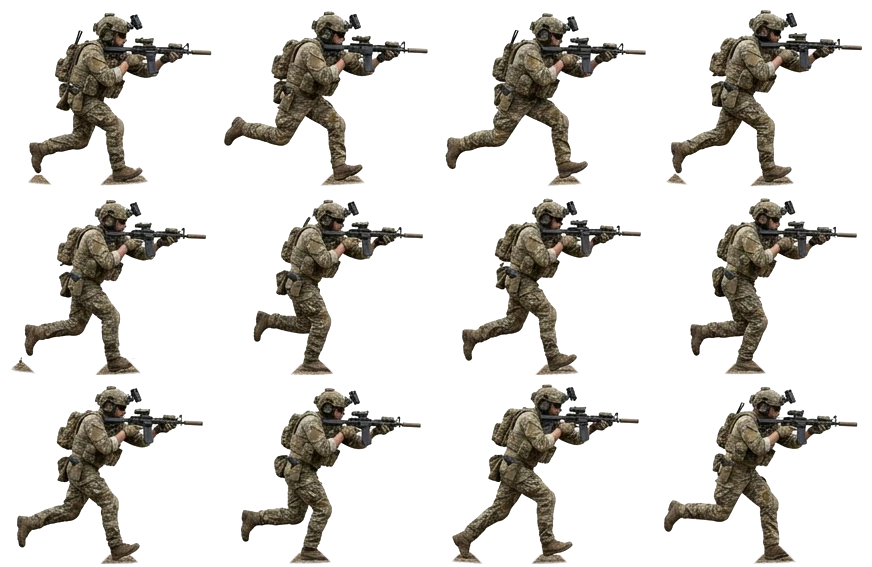
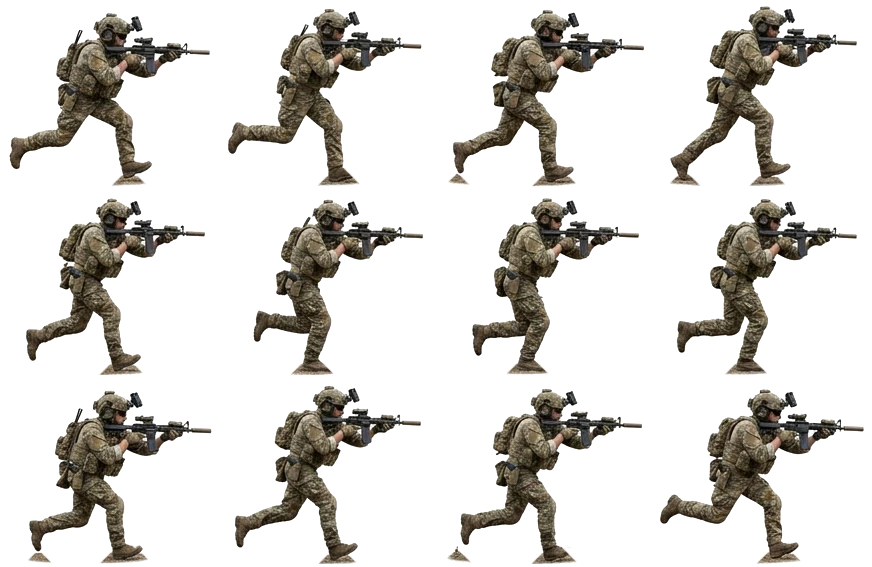
Corredor: fotogramas en orden de zancada y rebote vertical
Los 12 cuadros de la referencia estaban desordenados (saltos de pose = vibración).
Ordenados por apertura de piernas (abierta -> cerrada -> abierta), a 26 fps y con
rebote vertical sincronizado con la zancada.

diff --git a/public/js/runners.js b/public/js/runners.js
@@ -11,7 +11,7 @@ import * as THREE from 'three';
 import { playWhoosh } from './audio.js';
 
 // 12 fotogramas de carrera (soldado con camuflaje, mirando a la derecha)
-const SHEET = { url: 'img/corredor-sheet.webp', cols: 4, rows: 3, frames: 12, fps: 18, facesRight: true };
+const SHEET = { url: 'img/corredor-sheet.webp', cols: 4, rows: 3, frames: 12, fps: 26, facesRight: true }; // ordenados: zancada abierta -> cerrada -> abierta
 const HEIGHT = 1.78; // altura del sprite (m): el soldado agachado corriendo mide ~1,7 m
 const ASPECT = 0.867; // alto / ancho de cada fotograma
 const SPEED = [3.8, 4.8]; // m/s (trote táctico)
@@ -234,7 +234,9 @@ export function createRunner({ scene, camera, isClear, groundHeight, occluders, 
         return;
       }
       sprite.position.lerpVectors(run.start, run.end, run.s / run.len);
-      sprite.position.y = groundHeight(sprite.position.x, sprite.position.z) - 0.05;
+      // rebote de la zancada: arriba con las piernas abiertas (vuelo), abajo al apoyar
+      const phase = (run.anim * SHEET.fps * (run.speed / 4.3)) / SHEET.frames;
+      sprite.position.y = groundHeight(sprite.position.x, sprite.position.z) - 0.05 + 0.07 * (0.5 + 0.5 * Math.cos(phase * Math.PI * 2));
       // la perspectiva ya lo agranda al acercarse; se refuerza un poco para que se note más
       const dist = camera.position.distanceTo(sprite.position);
       const k = THREE.MathUtils.clamp(1 + (48 - dist) * 0.007, 0.88, 1.22);
